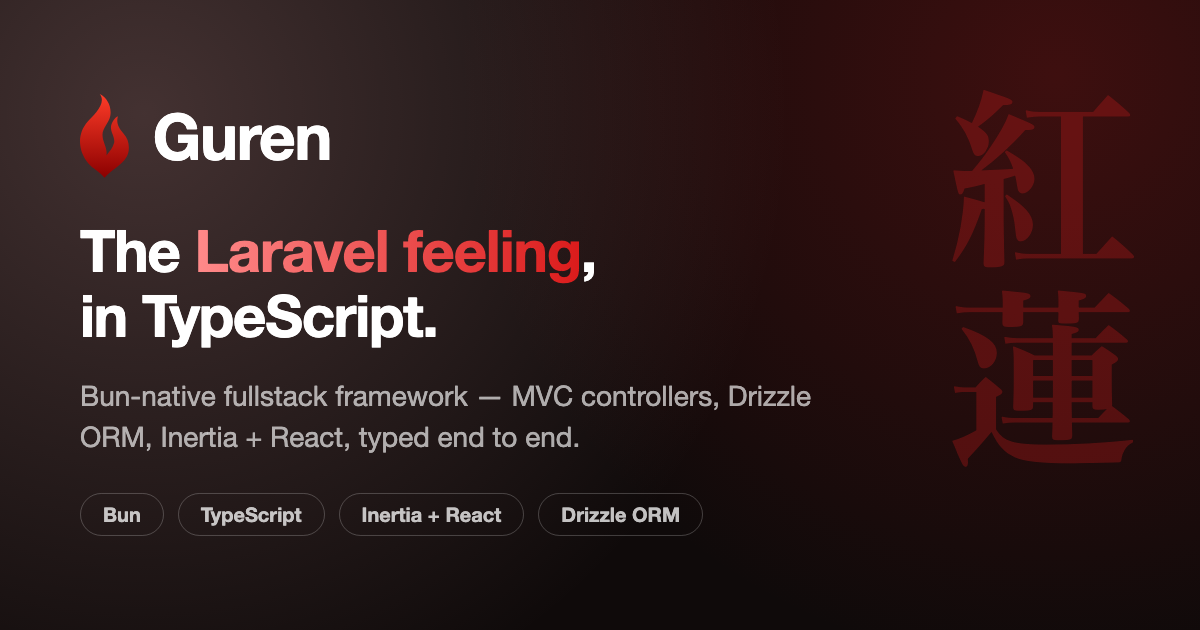
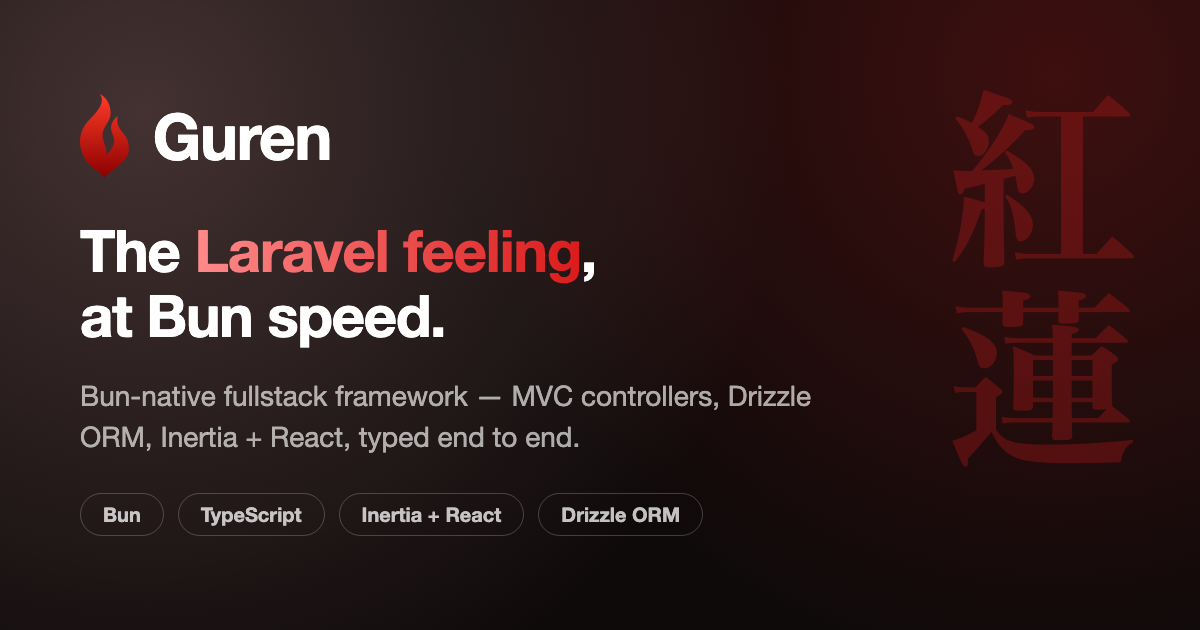
feat(docs): reposition tagline to 'The Laravel feeling, at Bun speed.'
'The Laravel feeling, in TypeScript' collides with AdonisJS's
long-held 'Laravel of Node/TypeScript' positioning. Leading with Bun
keeps the emotional hook while pointing at the actual differentiator.
Applied to hero h1, page titles, OG metadata, and the OG image.

Changed region(s): [[0.0617, 0.4524, 0.37, 0.573]]

diff --git a/web/config/site.ts b/web/config/site.ts
@@ -7,8 +7,8 @@ export const GITHUB_URL = 'https://github.com/gurenjs/guren'
 export const OG_IMAGE_PATH = '/og.png'
 
 export const SITE_TITLE = {
-  en: 'Guren — The Laravel feeling, in TypeScript. Built for Bun.',
-  ja: 'Guren — Laravel の開発体験を TypeScript で。Bun ネイティブのフルスタックフレームワーク',
+  en: 'Guren — The Laravel feeling, at Bun speed. Fullstack TypeScript framework.',
+  ja: 'Guren — Laravel の開発体験を、Bun の速さで。フルスタック TypeScript フレームワーク',
 } as const
 
 export const SITE_DESCRIPTION = {

diff --git a/web/app/Http/Controllers/HomeController.ts b/web/app/Http/Controllers/HomeController.ts
@@ -64,13 +64,13 @@ export default class HomeController extends Controller {
     const codeExamples = await getHighlightedExamples()
 
     const props = {
-      message: 'The Laravel feeling, in TypeScript.',
+      message: 'The Laravel feeling, at Bun speed.',
       codeExamples,
     }
 
     return this.inertia(pages.Home, props, {
       url: this.request.path,
-      title: 'Guren — The Laravel feeling, in TypeScript. Built for Bun.',
+      title: 'Guren — The Laravel feeling, at Bun speed. Fullstack TypeScript framework.',
       lang: 'en',
     })
   }
